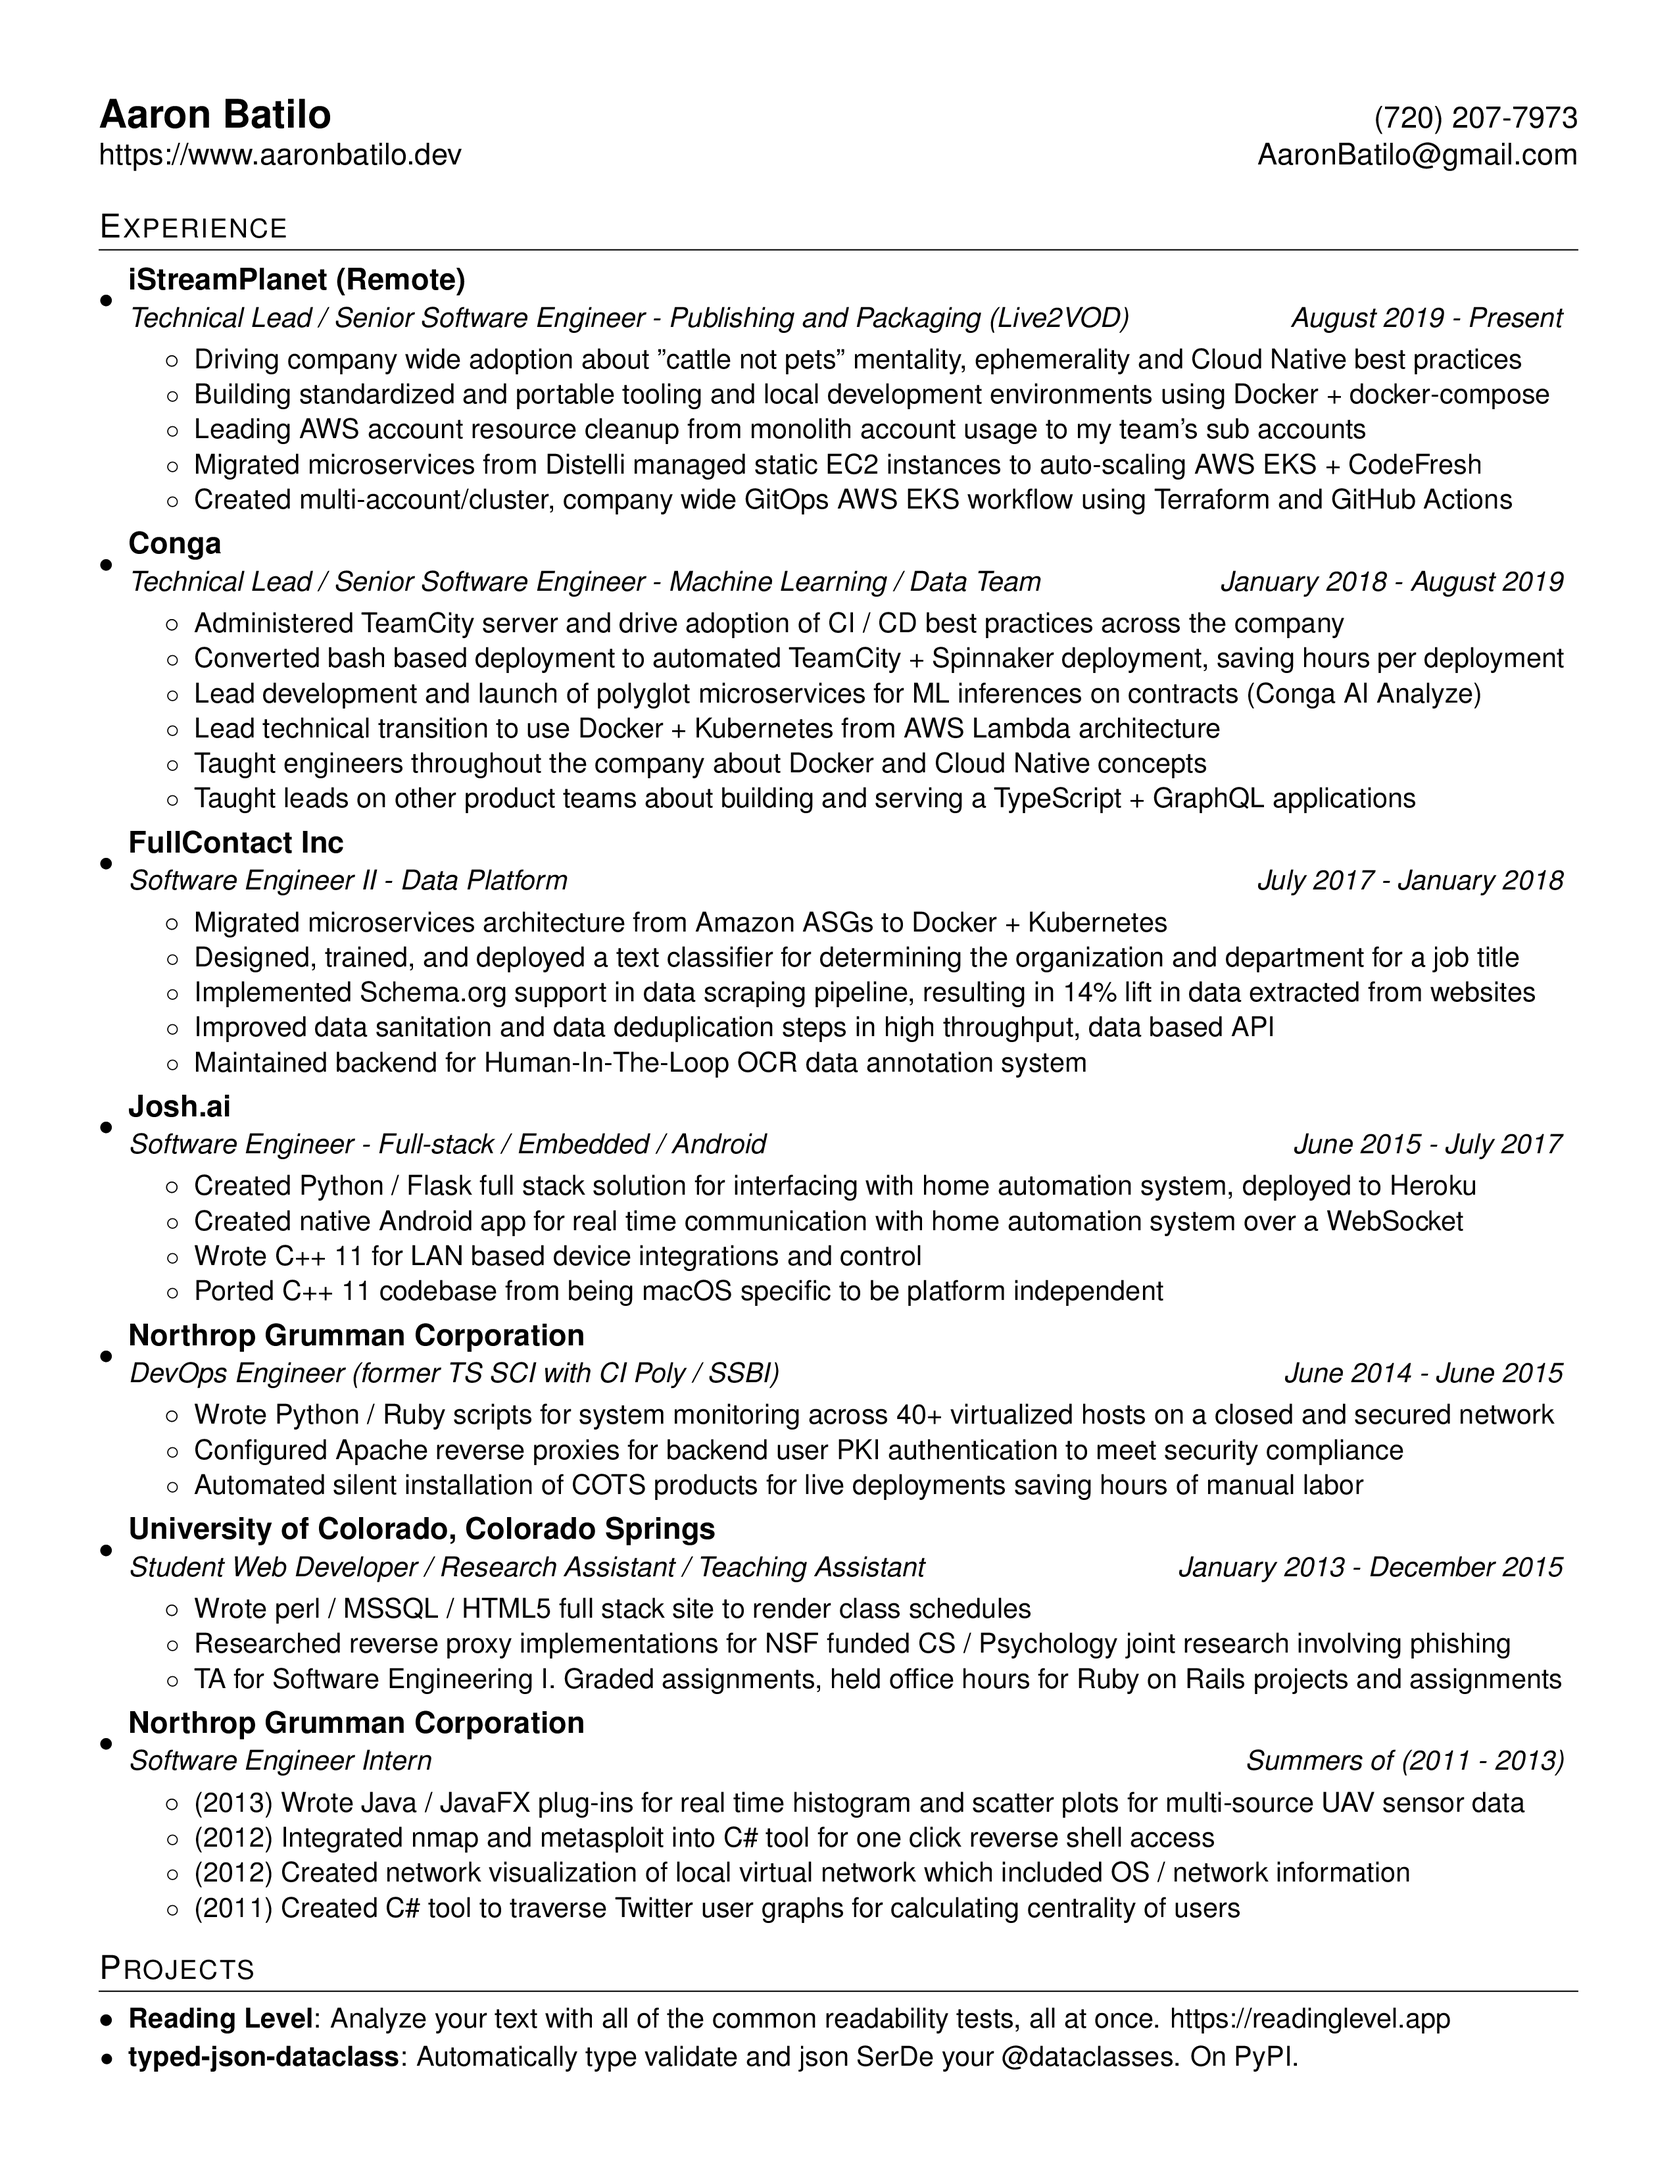
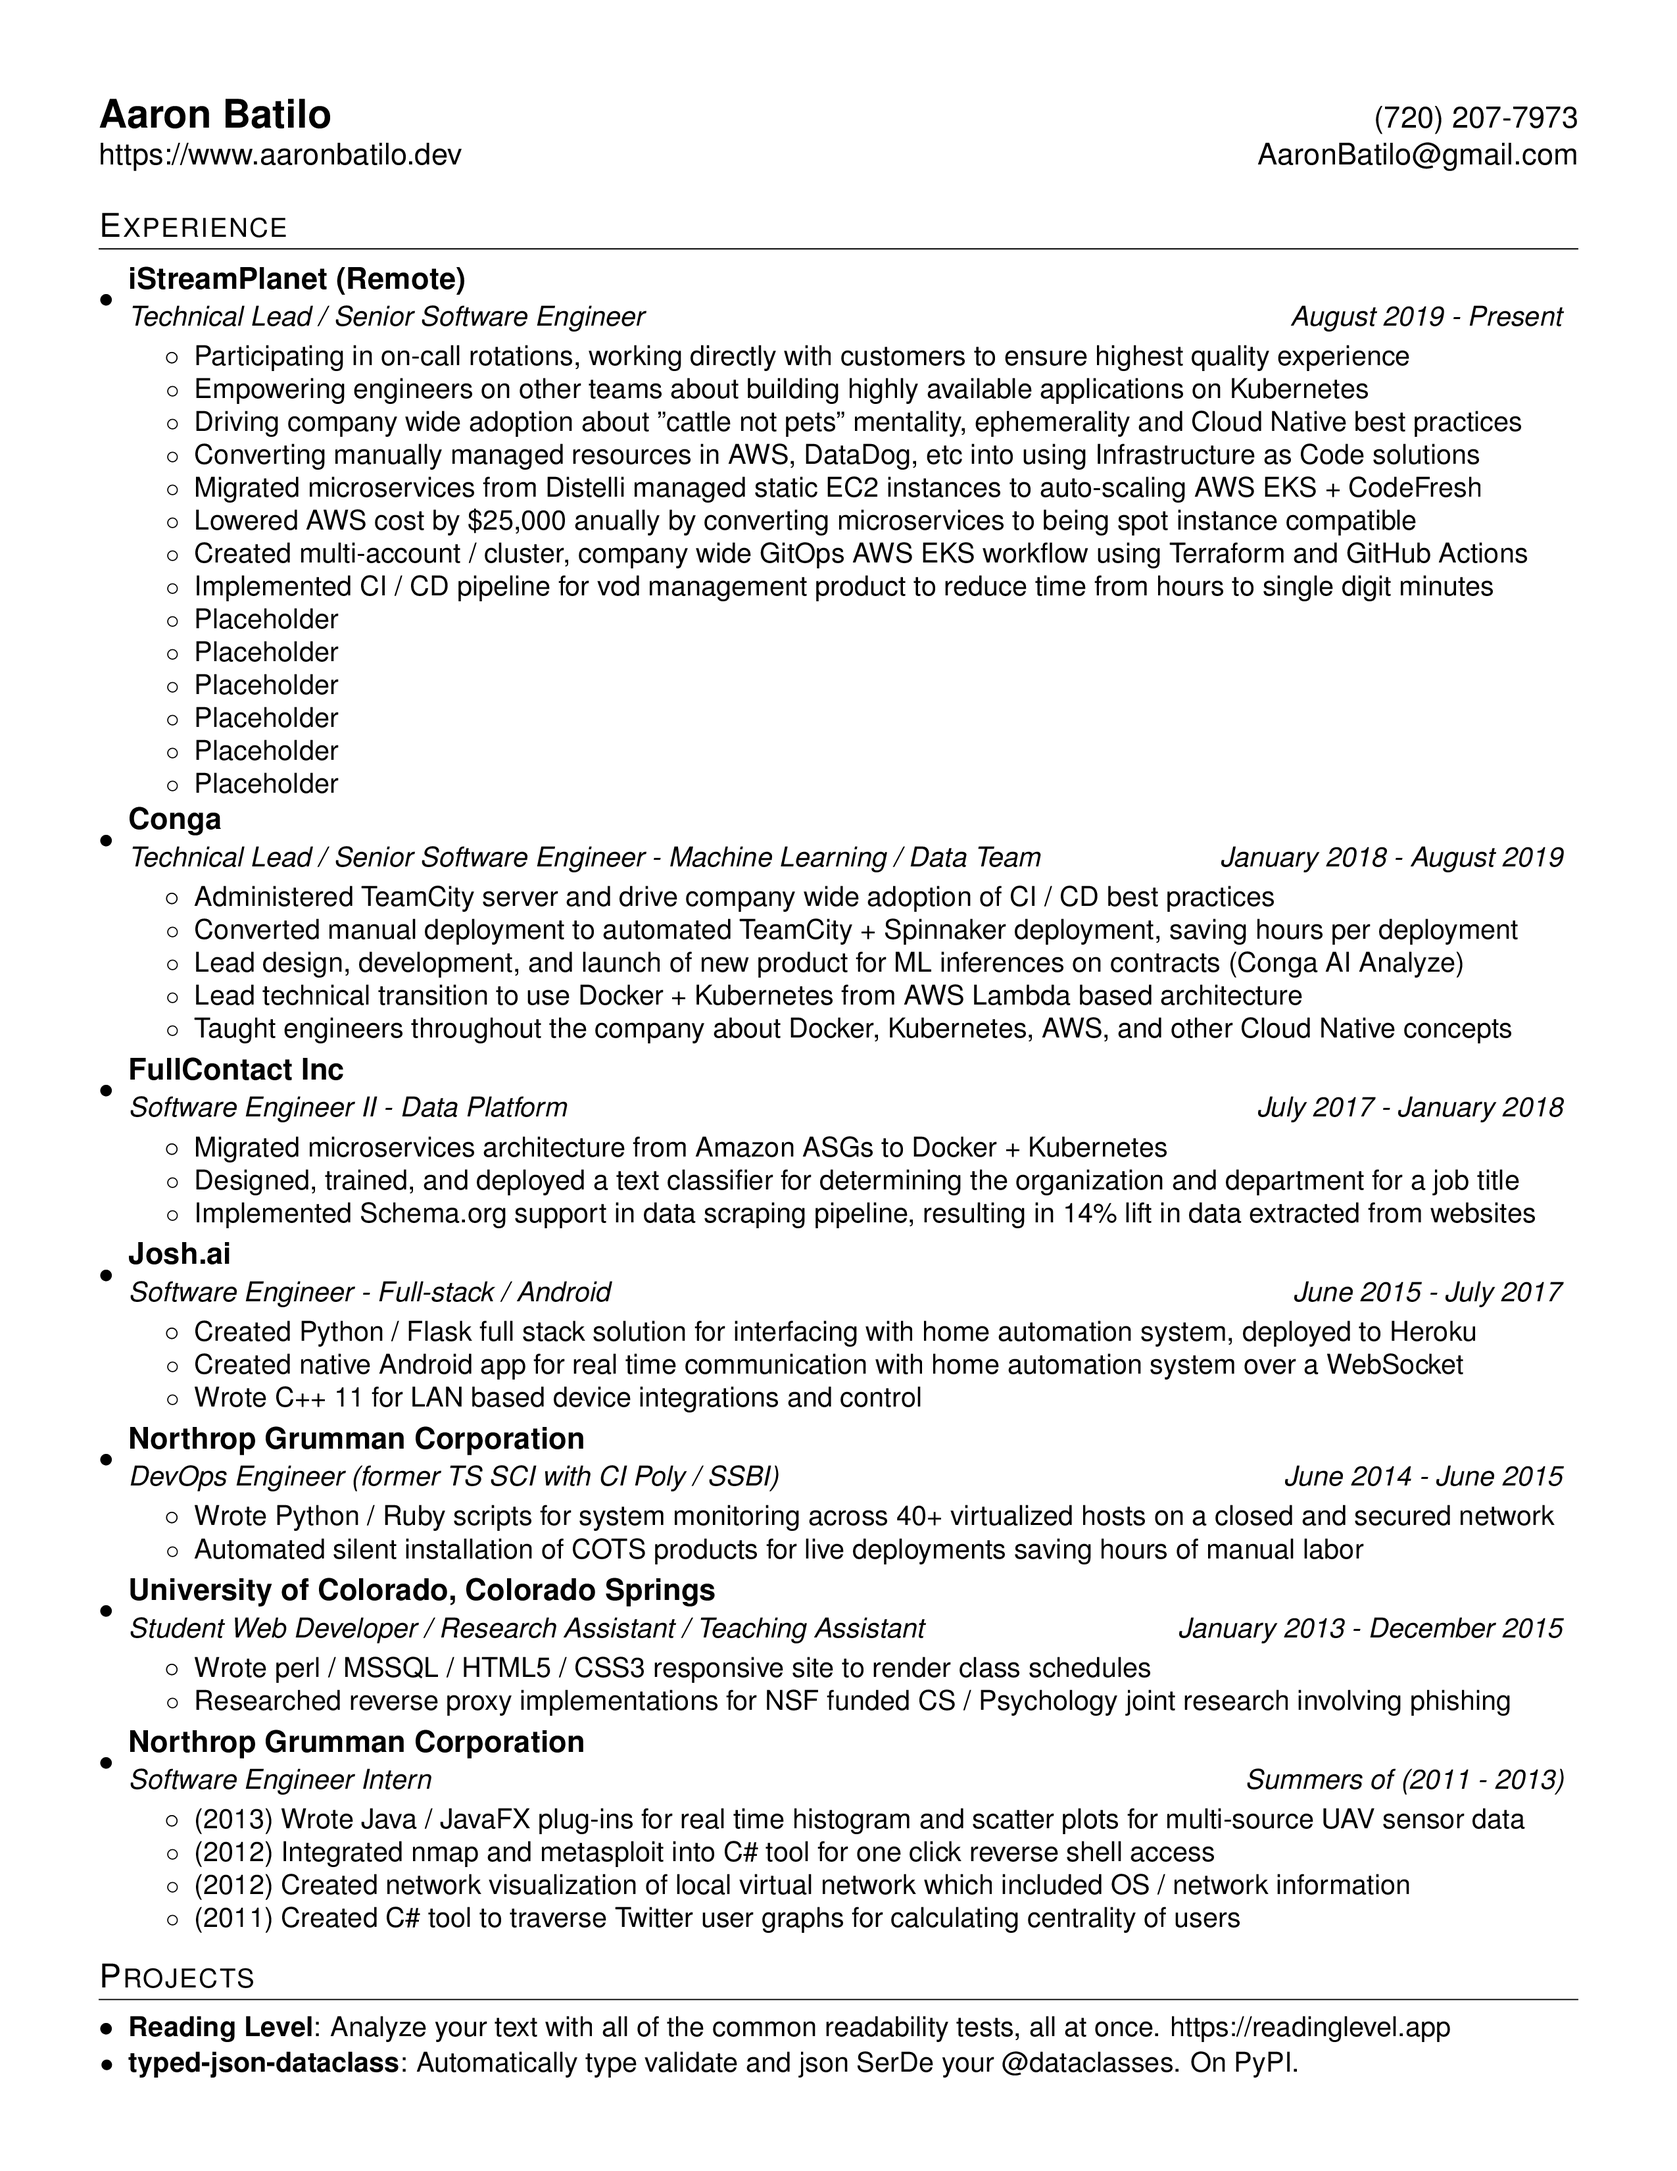
Adding more bullets for iSP

Changed region(s): [[0.062, 0.1248, 0.9294, 0.9676], [0.8365, 0.3121, 0.8675, 0.3433], [0.062, 0.0936, 0.0929, 0.1248]]

diff --git a/resume.tex b/resume.tex
@@ -93,22 +93,22 @@
 
     \resumeSubheading
       {iStreamPlanet (Remote)}
-      {Technical Lead / Senior Software Engineer / Site Reliability Engineer}{August 2019 - Present}
+      {Technical Lead / Senior Software Engineer }{August 2019 - Present}
       \resumeItemListStart
+        \resumeItemNoBold {Participating in on-call rotations, working directly with customers to ensure highest quality experience}
+        \resumeItemNoBold {Empowering engineers on other teams about building highly available applications on Kubernetes}
         \resumeItemNoBold {Driving company wide adoption about "cattle not pets" mentality, ephemerality and Cloud Native best practices}
+        \resumeItemNoBold {Converting manually managed resources in AWS, DataDog, etc into using Infrastructure as Code solutions}
         \resumeItemNoBold {Migrated microservices from Distelli managed static EC2 instances to auto-scaling AWS EKS + CodeFresh}
         \resumeItemNoBold {Lowered AWS cost by \$25,000 anually by converting microservices to being spot instance compatible}
         \resumeItemNoBold {Created multi-account / cluster, company wide GitOps AWS EKS workflow using Terraform and GitHub Actions}
-        \resumeItemNoBold {}
-        \resumeItemNoBold {}
-        \resumeItemNoBold {}
-        \resumeItemNoBold {}
-        \resumeItemNoBold {}
-        \resumeItemNoBold {}
-        \resumeItemNoBold {}
-        \resumeItemNoBold {}
-        \resumeItemNoBold {}
-        \resumeItemNoBold {}
+        \resumeItemNoBold {Implemented CI / CD pipeline for vod management product to reduce time from hours to single digit minutes}
+        \resumeItemNoBold {Placeholder}
+        \resumeItemNoBold {Placeholder}
+        \resumeItemNoBold {Placeholder}
+        \resumeItemNoBold {Placeholder}
+        \resumeItemNoBold {Placeholder}
+        \resumeItemNoBold {Placeholder}
       \resumeItemListEnd
 
     \resumeSubheading
